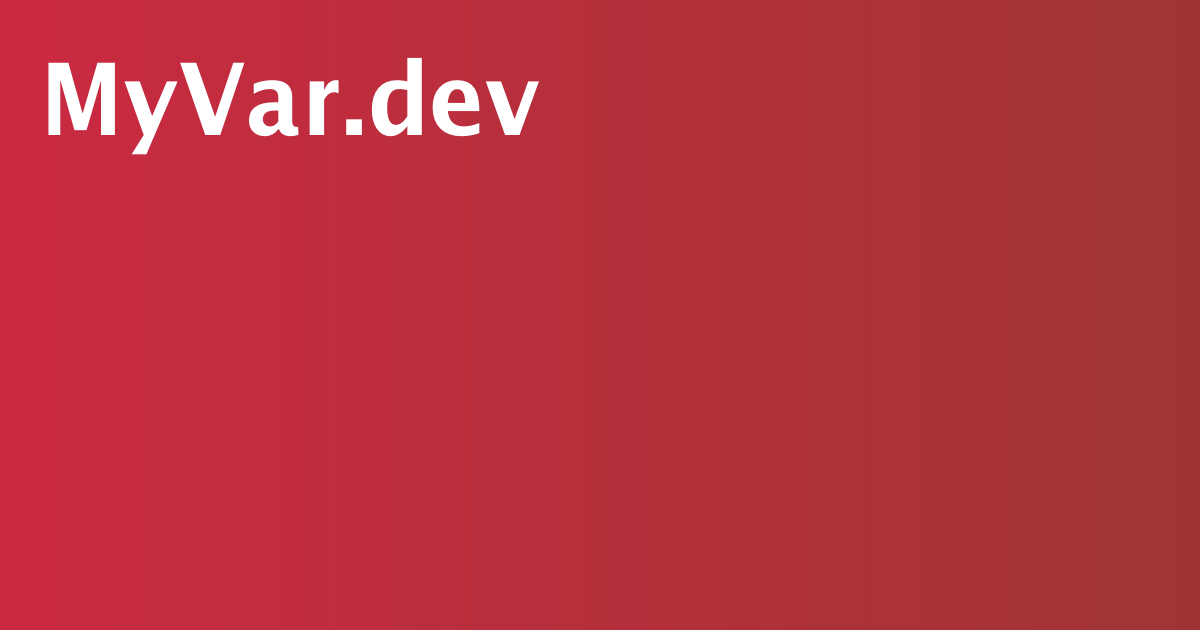
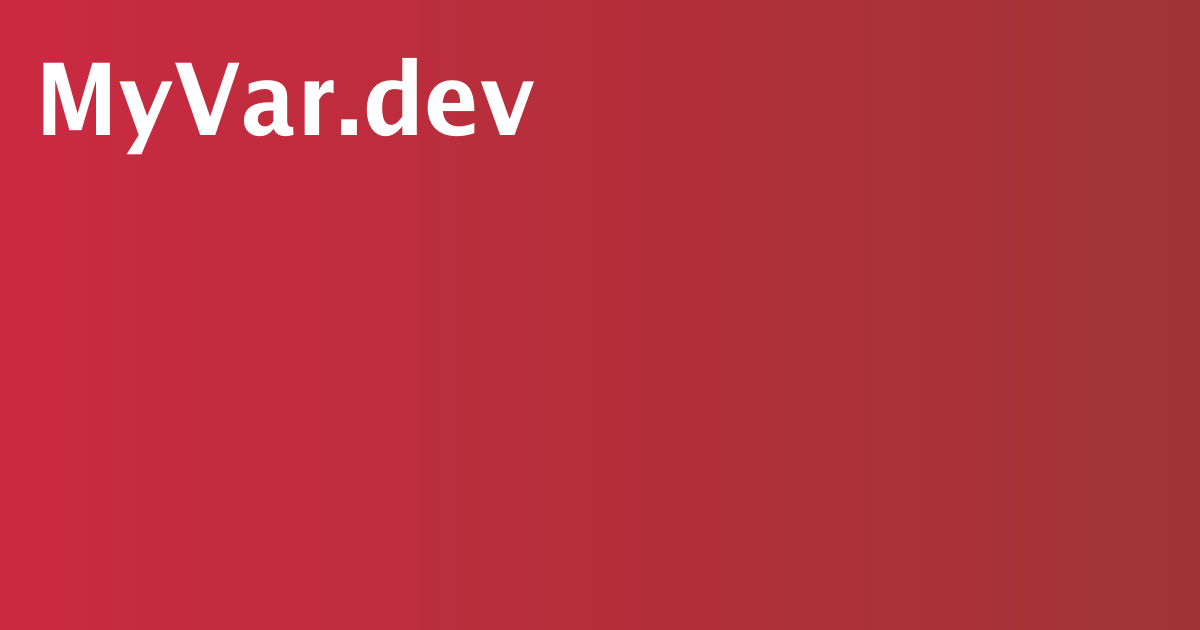
s

Changed region(s): [[0.0308, 0.0905, 0.4625, 0.2413]]

diff --git a/website/cmd/generate-og-images/main.go b/website/cmd/generate-og-images/main.go
@@ -27,7 +27,7 @@ const (
 	fontSize = 6.0
 	fontDPI = 1200
 	topMargin = 15
-	leftMargin = 40
+	leftMargin = 35
 	leftColorHex = 0xcb2a42
 	rightColorHex = 0xa03535
 )
